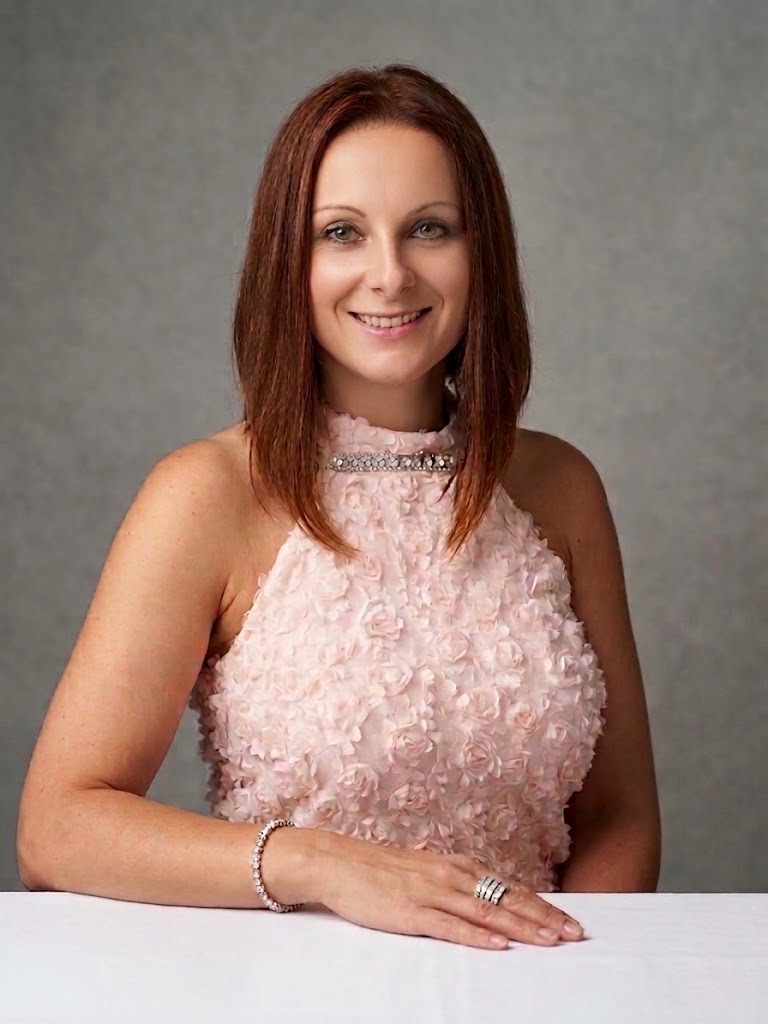
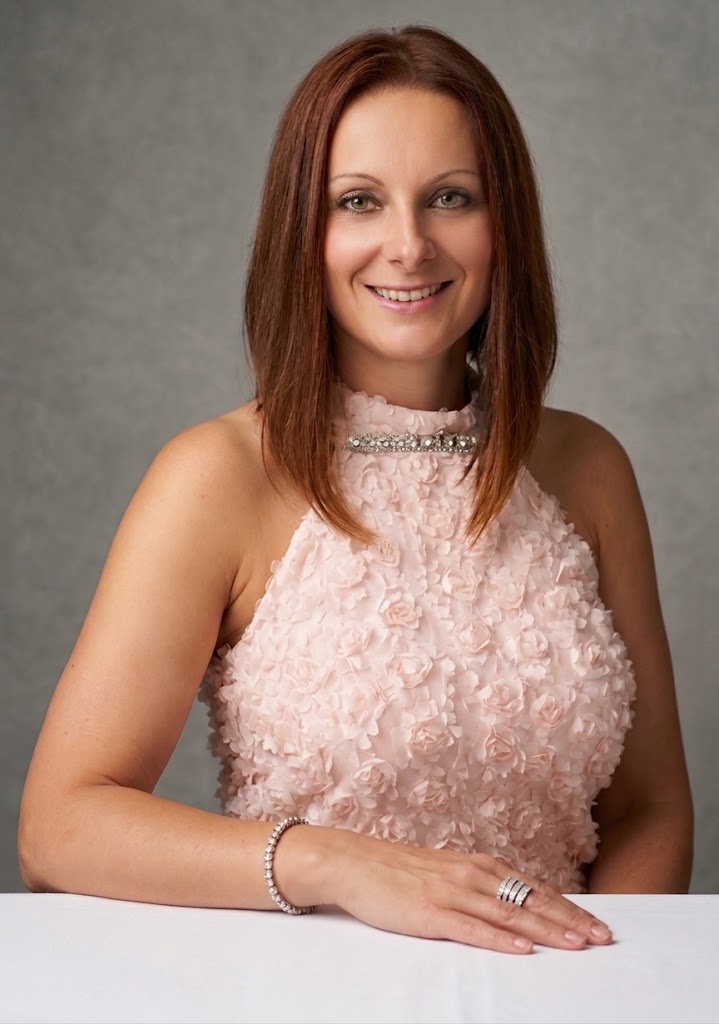
style: update portrait image and adjust object-position to top in About component

diff --git a/src/components/About.jsx b/src/components/About.jsx
@@ -18,7 +18,7 @@ const About = () => {
               <img 
                 src="/petra-portrait.png" 
                 alt="Petra Styasztny"
-                className="w-full h-full object-cover object-center"
+                className="w-full h-full object-cover object-top"
               />
             </div>
             <div className="absolute -top-4 -left-4 w-full h-full border border-brand-gold/20 -z-0 hidden sm:block" />
